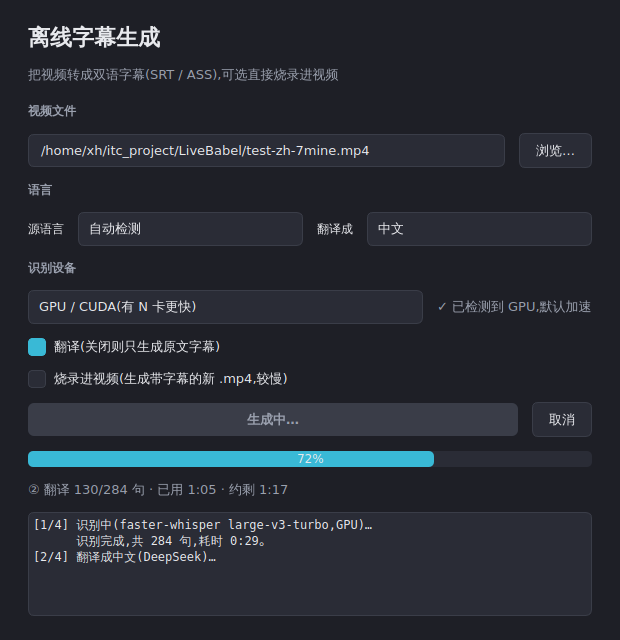
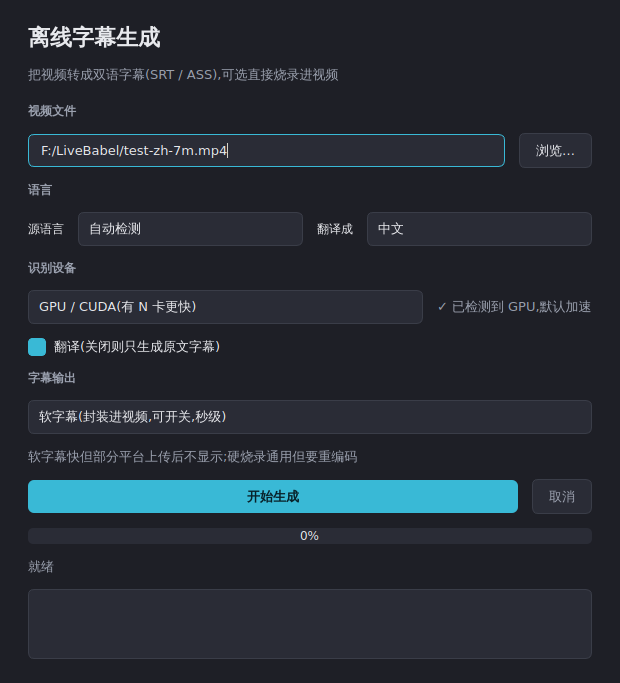
字幕输出三选一:仅文件/软字幕(秒级)/硬烧录(GPU提速)
烧录慢的根因:subtitles 滤镜是 CPU 软件滤镜不可 GPU 化,且 CPU 解码是
大头。两条提速路径让用户选:
- 软字幕 mux_soft_subtitle():字幕封装成轨道,-c copy 不重编码,秒级
  (实测 30s 片段 0.04s)。mp4 转 mov_text,mkv 原样保留 ass 样式
- 硬烧录加 -hwaccel cuda 硬解码,解码+编码两端都走 GPU,失败回退 CPU
GUI 用「字幕输出」下拉替代原烧录勾选;CLI 加 --sub none/soft/hard
(--burn 等价 --sub hard)

diff --git a/livebabel/offline/burn.py b/livebabel/offline/burn.py
@@ -38,33 +38,72 @@ def burn_subtitle(
     sub_escaped = sub.replace("\\", "/").replace(":", "\\:").replace("'", "\\'")
     vf = f"subtitles='{sub_escaped}'"
 
-    def base_cmd(venc_args):
+    def base_cmd(hwaccel_args, venc_args):
         return [
             ffmpeg, "-nostdin", "-y", "-loglevel", "error", "-stats",
+            *hwaccel_args,              # 放在 -i 前才对输入解码生效
             "-i", video_path,
             "-vf", vf,
             *venc_args,
-            "-c:a", "copy",          # 音频不重编码
+            "-c:a", "copy",             # 音频不重编码
             output_path,
         ]
 
-    # GPU:NVENC,p4 预设(速度/质量平衡),CQ 23 近似 CRF 23
+    # GPU:硬件解码(-hwaccel cuda)+ NVENC 编码,解码/编码两端都用 GPU,
+    #      只剩字幕滤镜在 CPU(libass 无法 GPU 化)。p4 预设、CQ 23 ≈ CRF 23。
+    gpu_hw = ["-hwaccel", "cuda"]
     gpu_args = ["-c:v", "h264_nvenc", "-preset", "p4", "-cq", "23"]
     # CPU:libx264 veryfast,比默认 medium 快好几倍
     cpu_args = ["-c:v", "libx264", "-preset", "veryfast", "-crf", "23"]
 
     if use_gpu:
         if on_log:
-            on_log("      用 GPU(NVENC)编码烧录…")
-        proc = _run(base_cmd(gpu_args))
+            on_log("      用 GPU(CUDA 解码 + NVENC 编码)烧录…")
+        proc = _run(base_cmd(gpu_hw, gpu_args))
         if proc.returncode == 0:
             return
-        # NVENC 不可用/失败 → 回退 CPU
+        # GPU 硬解+NVENC 失败(驱动/编解码不支持等)→ 回退纯 CPU
         if on_log:
-            on_log("      NVENC 不可用,回退 CPU(libx264 veryfast)…")
+            on_log("      GPU 烧录失败,回退 CPU(libx264 veryfast)…")
 
-    proc = _run(base_cmd(cpu_args))
+    proc = _run(base_cmd([], cpu_args))
     if proc.returncode != 0:
         raise RuntimeError(
             f"ffmpeg 烧录字幕失败:\n{proc.stderr.decode(errors='replace')}"
+        )
+
+
+def mux_soft_subtitle(
+    video_path: str,
+    subtitle_path: str,
+    output_path: str,
+    on_log=None,
+) -> None:
+    """把字幕作为「软字幕轨道」封装进视频,不重编码任何一帧 → 秒级完成。
+
+    软字幕 = 独立字幕轨,播放器里可开关/选语言,但不是画面像素(部分平台上传后
+    可能不显示)。视频/音频都 -c copy 直接拷流,所以极快。
+    输出建议用 .mkv(对 ASS 兼容最好);.mp4 只支持 mov_text(会丢 ASS 样式,转成普通字幕)。
+    """
+    from livebabel.ffmpeg_tool import find_ffmpeg
+    ffmpeg = find_ffmpeg()
+    ext = os.path.splitext(output_path)[1].lower()
+    # mp4 不支持 ass 字幕编码,需转 mov_text;mkv 可原样保留 ass/srt
+    sub_codec = "mov_text" if ext == ".mp4" else "copy"
+    cmd = [
+        ffmpeg, "-nostdin", "-y", "-loglevel", "error", "-stats",
+        "-i", video_path,
+        "-i", subtitle_path,
+        "-map", "0", "-map", "1",
+        "-c", "copy",
+        "-c:s", sub_codec,
+        "-metadata:s:s:0", "language=und",
+        output_path,
+    ]
+    if on_log:
+        on_log("      封装软字幕(不重编码,极快)…")
+    proc = _run(cmd)
+    if proc.returncode != 0:
+        raise RuntimeError(
+            f"ffmpeg 封装软字幕失败:\n{proc.stderr.decode(errors='replace')}"
         )

diff --git a/livebabel/offline_window.py b/livebabel/offline_window.py
@@ -80,7 +80,7 @@ class _Worker(QThread):
         from livebabel.offline.transcribe import transcribe
         from livebabel.offline.translate_batch import translate_sentences
         from livebabel.offline.subtitle_writer import write_srt, write_ass
-        from livebabel.offline.burn import burn_subtitle
+        from livebabel.offline.burn import burn_subtitle, mux_soft_subtitle
 
         video = self.o["video"]
         base = os.path.splitext(os.path.basename(video))[0]
@@ -165,17 +165,26 @@ class _Worker(QThread):
         self.log.emit(f"      {ass_path}")
 
         result = f"字幕已保存到:\n{srt_path}\n{ass_path}"
-        if self.o["burn"]:
+        sub_mode = self.o["sub_mode"]
+        if sub_mode == "hard":
             out_mp4 = os.path.join(out_dir, base + ".bilingual.mp4")
-            self.log.emit(f"[4/4] 烧录字幕进视频 → {out_mp4} …(重编码,请耐心等待)")
-            self.progress.emit(95, "④ 烧录字幕进视频中…")
+            self.log.emit(f"[4/4] 硬烧录字幕进视频 → {out_mp4} …(重编码,请耐心等待)")
+            self.progress.emit(95, "④ 硬烧录字幕进视频中…")
             burn_subtitle(video, ass_path, out_mp4,
                           use_gpu=(self.o["device"] == "cuda"),
                           on_log=self.log.emit)
-            self.log.emit("      烧录完成。")
-            result += f"\n带字幕视频:\n{out_mp4}"
+            self.log.emit("      硬烧录完成。")
+            result += f"\n带字幕视频(硬烧录):\n{out_mp4}"
+        elif sub_mode == "soft":
+            # 软字幕用 mkv 容器对 ASS 兼容最好
+            out_mkv = os.path.join(out_dir, base + ".softsub.mkv")
+            self.log.emit(f"[4/4] 封装软字幕 → {out_mkv} …(不重编码,极快)")
+            self.progress.emit(95, "④ 封装软字幕中…")
+            mux_soft_subtitle(video, ass_path, out_mkv, on_log=self.log.emit)
+            self.log.emit("      软字幕封装完成(播放器里可开关/选轨)。")
+            result += f"\n带字幕视频(软字幕,可开关):\n{out_mkv}"
         else:
-            self.log.emit("[4/4] 未烧录(勾选「烧录进视频」可硬压字幕)")
+            self.log.emit("[4/4] 仅输出字幕文件(未封装进视频)")
 
         self.progress.emit(100, "完成")
         self.done.emit(True, result)
@@ -265,9 +274,23 @@ class OfflineWindow(QWidget):
         # 选项开关
         self.cb_translate = QCheckBox("翻译(关闭则只生成原文字幕)")
         self.cb_translate.setChecked(True)
-        self.cb_burn = QCheckBox("烧录进视频(生成带字幕的新 .mp4,较慢)")
         root.addWidget(self.cb_translate)
-        root.addWidget(self.cb_burn)
+
+        # 字幕输出方式
+        root.addWidget(self._section("字幕输出"))
+        sub_row = QHBoxLayout()
+        self.sub_combo = QComboBox()
+        self.sub_combo.addItems([
+            "仅字幕文件(SRT/ASS,最快)",
+            "软字幕(封装进视频,可开关,秒级)",
+            "硬烧录(焊进画面,任何平台都显示,较慢)",
+        ])
+        sub_row.addWidget(self.sub_combo, 1)
+        root.addLayout(sub_row)
+        self.sub_hint = QLabel("软字幕快但部分平台上传后不显示;硬烧录通用但要重编码")
+        self.sub_hint.setObjectName("subtitle")
+        self.sub_hint.setWordWrap(True)
+        root.addWidget(self.sub_hint)
 
         # 开始 / 取消 按钮
         btn_row = QHBoxLayout()
@@ -349,7 +372,7 @@ class OfflineWindow(QWidget):
             "device": "cuda" if on_gpu else "cpu",
             "compute_type": "float16" if on_gpu else "int8",
             "translate": translate,
-            "burn": self.cb_burn.isChecked(),
+            "sub_mode": ("none", "soft", "hard")[self.sub_combo.currentIndex()],
             "out_dir": None,
             "api_key": self._api_key,
         }
@@ -395,7 +418,7 @@ class OfflineWindow(QWidget):
         self.start_btn.setText("生成中…" if running else "开始生成")
         self.cancel_btn.setEnabled(running)
         for w in (self.path_edit, self.source_combo, self.target_combo,
-                  self.device_combo, self.cb_translate, self.cb_burn):
+                  self.device_combo, self.cb_translate, self.sub_combo):
             w.setEnabled(not running)
 
     def set_api_key(self, key: str) -> None:

diff --git a/tools/offline_subtitle.py b/tools/offline_subtitle.py
@@ -22,7 +22,7 @@ sys.path.insert(0, os.path.dirname(os.path.dirname(os.path.abspath(__file__))))
 from livebabel.offline.transcribe import transcribe
 from livebabel.offline.translate_batch import translate_sentences
 from livebabel.offline.subtitle_writer import write_srt, write_ass
-from livebabel.offline.burn import burn_subtitle
+from livebabel.offline.burn import burn_subtitle, mux_soft_subtitle
 
 
 def main() -> None:
@@ -36,7 +36,9 @@ def main() -> None:
     p.add_argument("--compute-type", default="auto",
                    help="auto(随设备:GPU=float16,CPU=int8)/ int8 / float16")
     p.add_argument("--no-translate", action="store_true", help="只出原文字幕,不翻译")
-    p.add_argument("--burn", action="store_true", help="把 ASS 字幕硬压进视频")
+    p.add_argument("--sub", choices=["none", "soft", "hard"], default="none",
+                   help="字幕输出:none=仅文件 / soft=软字幕封装(快) / hard=硬烧录(慢)")
+    p.add_argument("--burn", action="store_true", help="(等价 --sub hard)硬压进视频")
     p.add_argument("--out-dir", default=None, help="输出目录(默认与视频同目录)")
     args = p.parse_args()
 
@@ -84,15 +86,20 @@ def main() -> None:
     write_ass(sents, ass_path, bilingual=bilingual)
     print(f"      {srt_path}\n      {ass_path}")
 
-    if args.burn:
+    sub_mode = "hard" if args.burn else args.sub
+    if sub_mode == "hard":
         out_mp4 = os.path.join(out_dir, base + ".bilingual.mp4")
-        print(f"[4/4] 烧录字幕进视频 → {out_mp4} …")
+        print(f"[4/4] 硬烧录字幕进视频 → {out_mp4} …")
         burn_subtitle(args.video, ass_path, out_mp4,
-                      use_gpu=(device == "cuda"),
-                      on_log=lambda m: print(m))
+                      use_gpu=(device == "cuda"), on_log=lambda m: print(m))
+        print("      完成。")
+    elif sub_mode == "soft":
+        out_mkv = os.path.join(out_dir, base + ".softsub.mkv")
+        print(f"[4/4] 封装软字幕 → {out_mkv} …")
+        mux_soft_subtitle(args.video, ass_path, out_mkv, on_log=lambda m: print(m))
         print("      完成。")
     else:
-        print("[4/4] 未烧录(加 --burn 可硬压进视频)")
+        print("[4/4] 仅字幕文件(--sub soft 软字幕 / --sub hard 硬烧录)")
 
 
 if __name__ == "__main__":